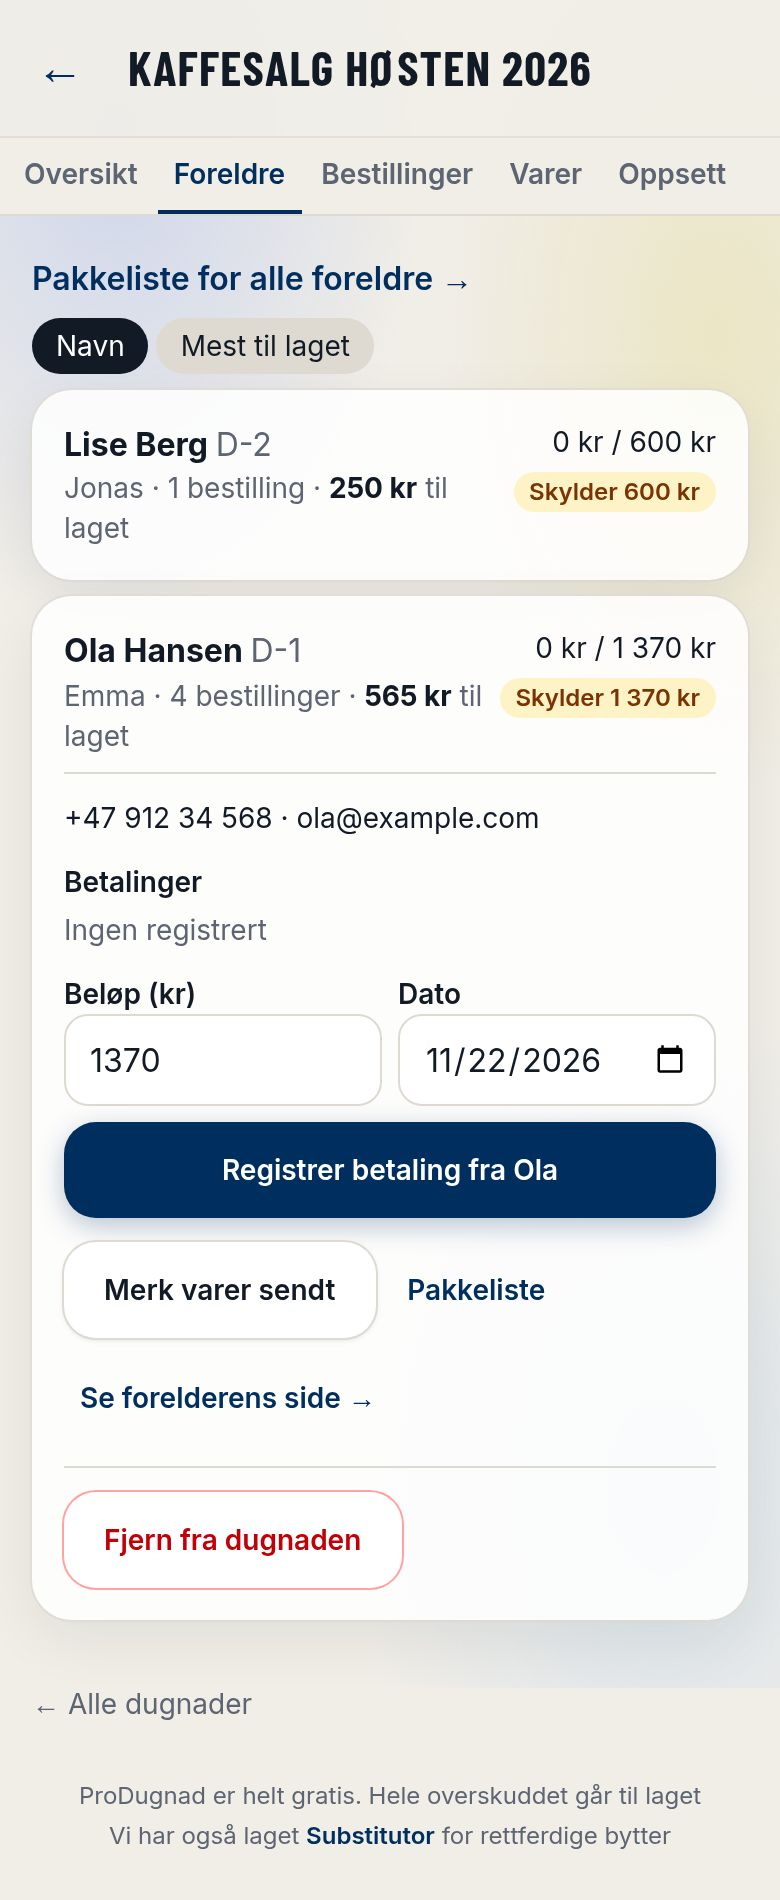
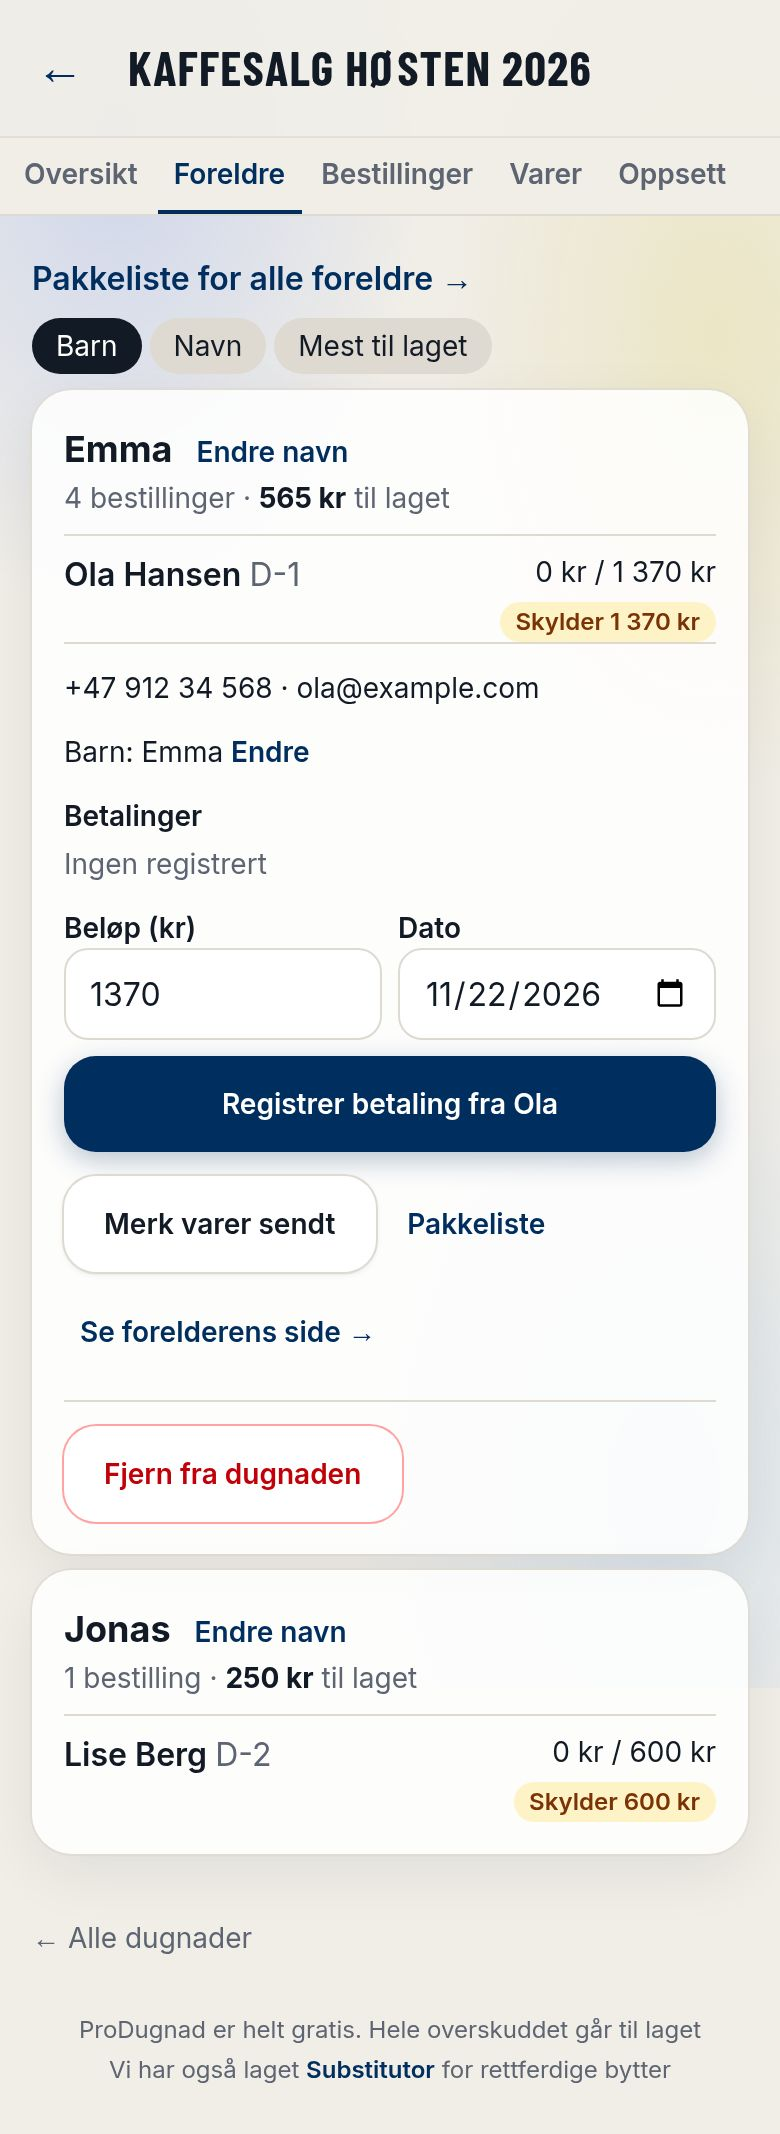
Docs: Foreldre screenshot with the per-child view

Changed region(s): [[0.0308, 0.0, 0.9846, 0.9937], [0.6462, 0.0, 0.7692, 0.0932], [0.8, 0.0621, 0.9846, 0.1242]]

diff --git a/docs/tekster.md b/docs/tekster.md
@@ -197,9 +197,9 @@ Every text in the app, the emails and the link previews, as of 22 November 2026,
 
 ## I. Admin: a campaign
 
-<p><a href="screenshots/i-oversikt.jpg"><img src="screenshots/i-oversikt.jpg" width="230" alt="Oversikt" title="Oversikt"></a> <a href="screenshots/i-foreldre.jpg"><img src="screenshots/i-foreldre.jpg" width="230" alt="Foreldre (åpnet)" title="Foreldre (åpnet)"></a> <a href="screenshots/i-bestillinger.jpg"><img src="screenshots/i-bestillinger.jpg" width="230" alt="Bestillinger" title="Bestillinger"></a> <a href="screenshots/i-varer.jpg"><img src="screenshots/i-varer.jpg" width="230" alt="Varer" title="Varer"></a> <a href="screenshots/i-vare-endre.jpg"><img src="screenshots/i-vare-endre.jpg" width="230" alt="Endre vare med bilder" title="Endre vare med bilder"></a> <a href="screenshots/i-oppsett.jpg"><img src="screenshots/i-oppsett.jpg" width="230" alt="Oppsett" title="Oppsett"></a> <a href="screenshots/i-slett-dugnad-knapp.jpg"><img src="screenshots/i-slett-dugnad-knapp.jpg" width="230" alt="Slett dugnaden (Oppsett, nederst)" title="Slett dugnaden (Oppsett, nederst)"></a> <a href="screenshots/i-slett-dugnad.jpg"><img src="screenshots/i-slett-dugnad.jpg" width="230" alt="Slette dugnaden? (skriv navnet)" title="Slette dugnaden? (skriv navnet)"></a> <a href="screenshots/i-fjern-forelder.jpg"><img src="screenshots/i-fjern-forelder.jpg" width="230" alt="Fjerne forelder? (skriv navnet)" title="Fjerne forelder? (skriv navnet)"></a> <a href="screenshots/i-oppsett-hva-som-vises.jpg"><img src="screenshots/i-oppsett-hva-som-vises.jpg" width="230" alt="Hva som vises" title="Hva som vises"></a> <a href="screenshots/i-avslutning.jpg"><img src="screenshots/i-avslutning.jpg" width="230" alt="Etter avslutning" title="Etter avslutning"></a> <a href="screenshots/i-alle-pakkelister.jpg"><img src="screenshots/i-alle-pakkelister.jpg" width="230" alt="Pakkeliste per forelder" title="Pakkeliste per forelder"></a></p>
+<p><a href="screenshots/i-oversikt.jpg"><img src="screenshots/i-oversikt.jpg" width="230" alt="Oversikt" title="Oversikt"></a> <a href="screenshots/i-foreldre.jpg"><img src="screenshots/i-foreldre.jpg" width="230" alt="Foreldre per barn (åpnet)" title="Foreldre per barn (åpnet)"></a> <a href="screenshots/i-bestillinger.jpg"><img src="screenshots/i-bestillinger.jpg" width="230" alt="Bestillinger" title="Bestillinger"></a> <a href="screenshots/i-varer.jpg"><img src="screenshots/i-varer.jpg" width="230" alt="Varer" title="Varer"></a> <a href="screenshots/i-vare-endre.jpg"><img src="screenshots/i-vare-endre.jpg" width="230" alt="Endre vare med bilder" title="Endre vare med bilder"></a> <a href="screenshots/i-oppsett.jpg"><img src="screenshots/i-oppsett.jpg" width="230" alt="Oppsett" title="Oppsett"></a> <a href="screenshots/i-slett-dugnad-knapp.jpg"><img src="screenshots/i-slett-dugnad-knapp.jpg" width="230" alt="Slett dugnaden (Oppsett, nederst)" title="Slett dugnaden (Oppsett, nederst)"></a> <a href="screenshots/i-slett-dugnad.jpg"><img src="screenshots/i-slett-dugnad.jpg" width="230" alt="Slette dugnaden? (skriv navnet)" title="Slette dugnaden? (skriv navnet)"></a> <a href="screenshots/i-fjern-forelder.jpg"><img src="screenshots/i-fjern-forelder.jpg" width="230" alt="Fjerne forelder? (skriv navnet)" title="Fjerne forelder? (skriv navnet)"></a> <a href="screenshots/i-oppsett-hva-som-vises.jpg"><img src="screenshots/i-oppsett-hva-som-vises.jpg" width="230" alt="Hva som vises" title="Hva som vises"></a> <a href="screenshots/i-avslutning.jpg"><img src="screenshots/i-avslutning.jpg" width="230" alt="Etter avslutning" title="Etter avslutning"></a> <a href="screenshots/i-alle-pakkelister.jpg"><img src="screenshots/i-alle-pakkelister.jpg" width="230" alt="Pakkeliste per forelder" title="Pakkeliste per forelder"></a></p>
 
-<sub>Oversikt · Foreldre (åpnet) · Bestillinger · Varer · Endre vare med bilder · Oppsett · Slett dugnaden (Oppsett, nederst) · Slette dugnaden? (skriv navnet) · Fjerne forelder? (skriv navnet) · Hva som vises · Etter avslutning · Pakkeliste per forelder</sub>
+<sub>Oversikt · Foreldre per barn (åpnet) · Bestillinger · Varer · Endre vare med bilder · Oppsett · Slett dugnaden (Oppsett, nederst) · Slette dugnaden? (skriv navnet) · Fjerne forelder? (skriv navnet) · Hva som vises · Etter avslutning · Pakkeliste per forelder</sub>
 
 | # | Where | Text |
 |---|---|---|
